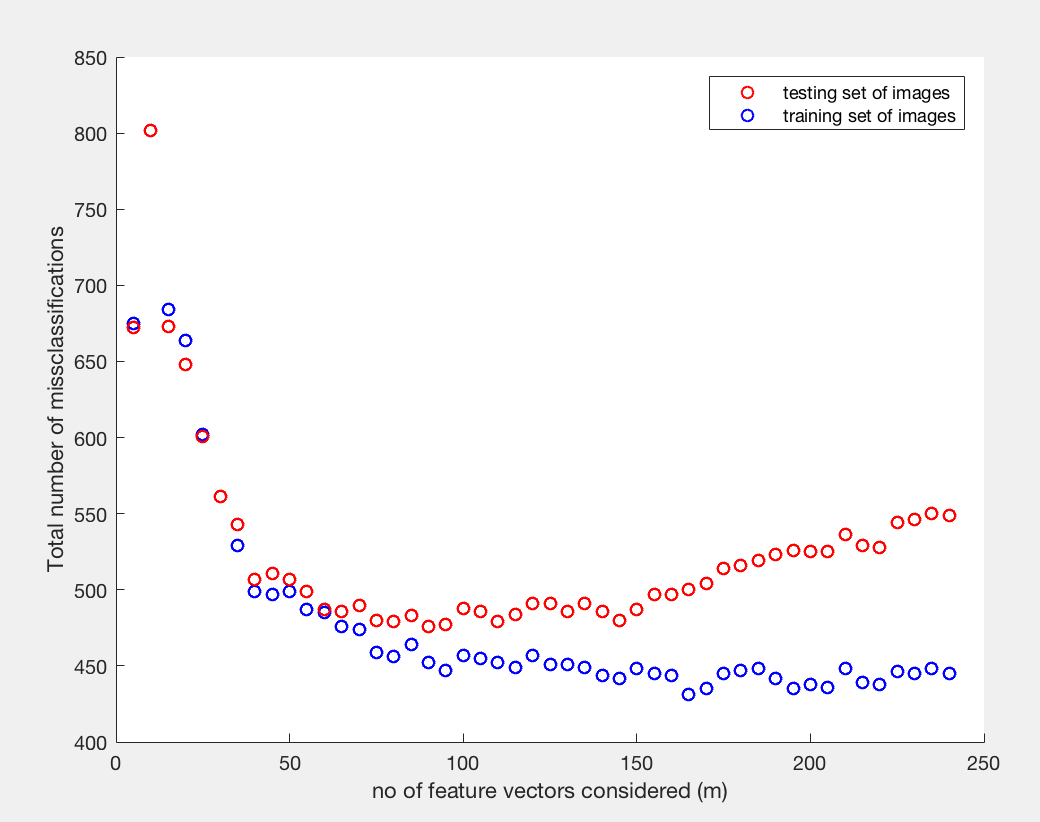
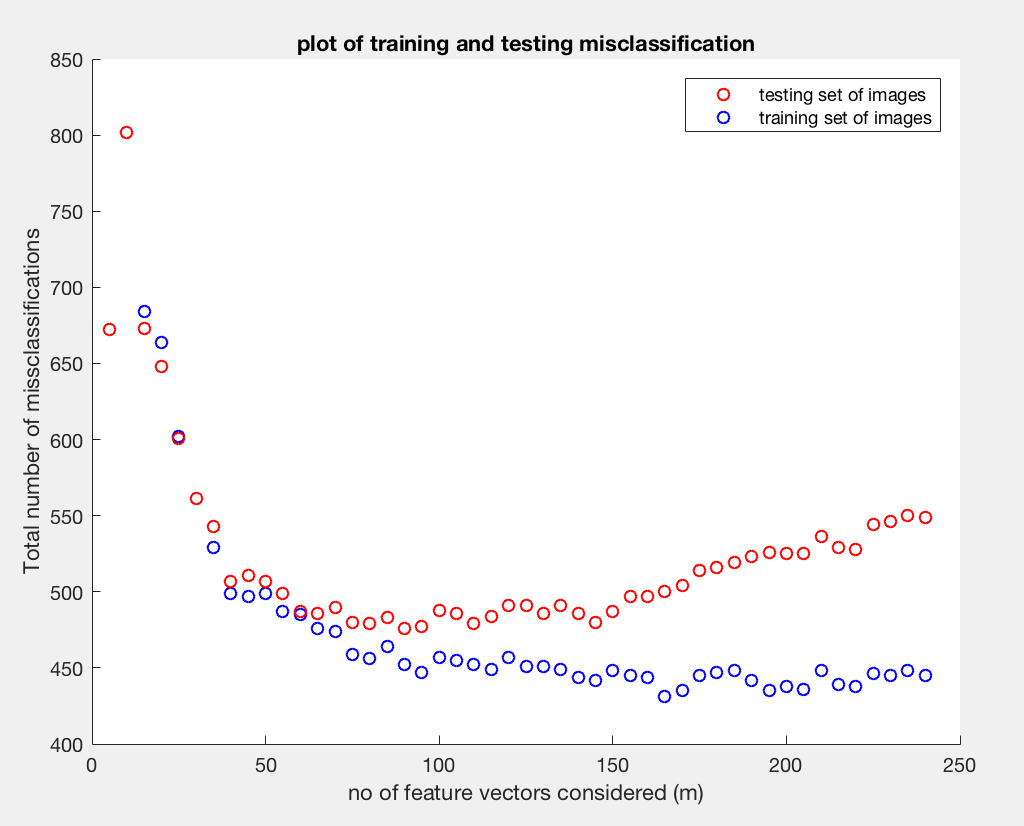
graph title added

diff --git a/Misclassifications/hw4ml.m b/Misclassifications/hw4ml.m
@@ -84,4 +84,4 @@ end
 legend('testing set of images','training set of images')
 xlabel('no of feature vectors considered (m)')
 ylabel('Total number of missclassifications')
-
+title('plot of training and testing misclassification')
